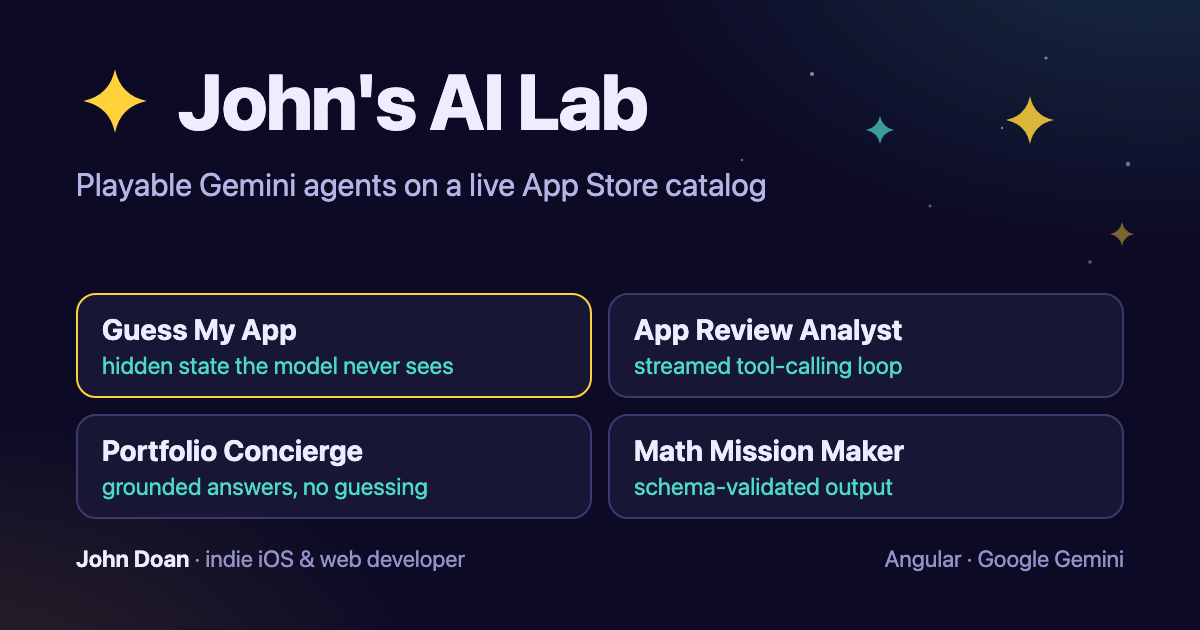
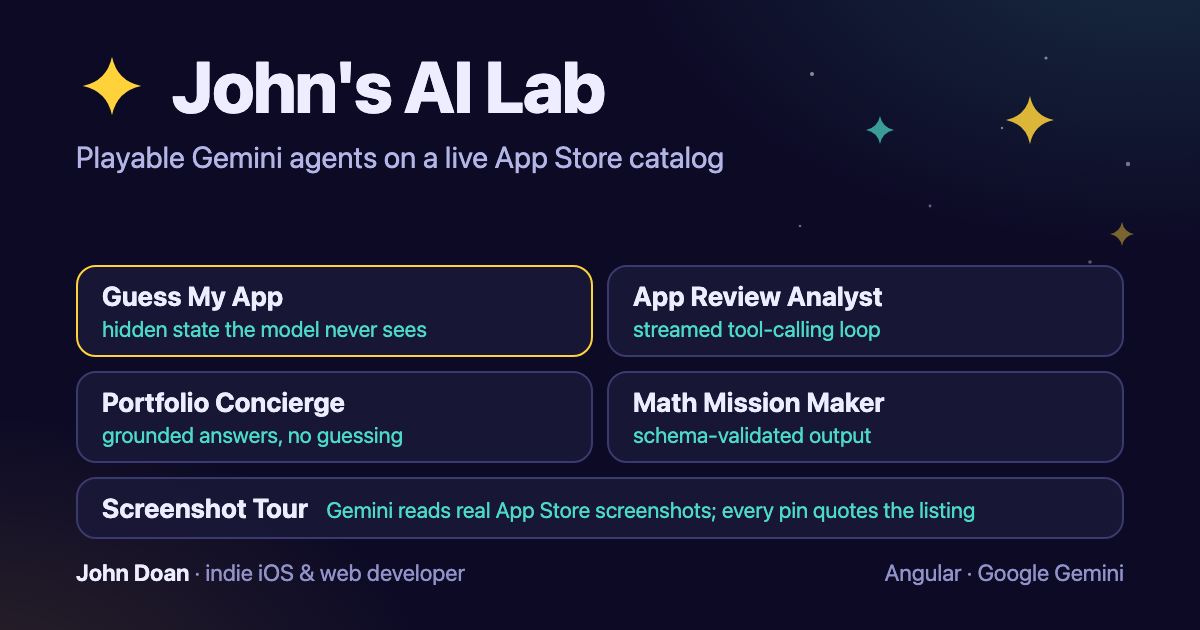
ai-lab

Changed region(s): [[0.0617, 0.4222, 0.9558, 0.9349], [0.0617, 0.0905, 0.6475, 0.3317]]

diff --git a/ai-lab/brand/og-image.html b/ai-lab/brand/og-image.html
@@ -16,17 +16,20 @@
     font-family: ui-rounded, 'SF Pro Rounded', -apple-system, BlinkMacSystemFont, 'Segoe UI', Roboto, Helvetica, Arial, sans-serif;
   }
   .sky { position: absolute; inset: 0; }
-  .wrap { position: absolute; inset: 0; padding: 62px 76px 58px; display: flex; flex-direction: column; }
+  .wrap { position: absolute; inset: 0; padding: 50px 76px 44px; display: flex; flex-direction: column; }
   .brand { display: flex; align-items: center; gap: 24px; }
-  .brand svg { width: 78px; height: 78px; flex: none; }
-  h1 { margin: 0; font-size: 78px; line-height: 1; font-weight: 800; letter-spacing: -1.5px; }
-  .sub { margin: 24px 0 0; font-size: 32px; line-height: 1.25; color: #b3b5e6; }
-  .grid { margin-top: auto; display: grid; grid-template-columns: 1fr 1fr; gap: 16px; }
-  .card { background: rgba(26, 24, 56, 0.86); border: 2px solid #3a3a6e; border-radius: 20px; padding: 17px 24px; }
+  .brand svg { width: 72px; height: 72px; flex: none; }
+  h1 { margin: 0; font-size: 72px; line-height: 1; font-weight: 800; letter-spacing: -1.5px; }
+  .sub { margin: 16px 0 0; font-size: 30px; line-height: 1.25; color: #b3b5e6; }
+  .grid { margin-top: auto; display: grid; grid-template-columns: 1fr 1fr; gap: 14px; }
+  .card { background: rgba(26, 24, 56, 0.86); border: 2px solid #3a3a6e; border-radius: 20px; padding: 13px 24px; }
+  /* Five stages: the fifth spans both columns, title and caption on one line. */
+  .card.wide { grid-column: 1 / -1; display: flex; align-items: baseline; gap: 18px; }
+  .card.wide span { margin-top: 0; }
   .card.lead { border-color: #ffd23b; }
-  .card b { display: block; font-size: 29px; font-weight: 700; }
-  .card span { display: block; margin-top: 5px; font-size: 24px; color: #4cd9c7; }
-  .foot { margin-top: 26px; display: flex; justify-content: space-between; align-items: baseline; font-size: 23px; color: #9092c8; }
+  .card b { display: block; font-size: 27px; font-weight: 700; }
+  .card span { display: block; margin-top: 4px; font-size: 22px; color: #4cd9c7; }
+  .foot { margin-top: 20px; display: flex; justify-content: space-between; align-items: baseline; font-size: 23px; color: #9092c8; }
   .foot strong { color: #ededff; font-weight: 650; }
 </style>
 </head>
@@ -36,7 +39,7 @@
     <g fill="#ededff">
       <circle cx="812" cy="74" r="2" opacity=".55"/><circle cx="1046" cy="58" r="1.6" opacity=".5"/>
       <circle cx="1128" cy="164" r="2.2" opacity=".45"/><circle cx="930" cy="206" r="1.4" opacity=".4"/>
-      <circle cx="1090" cy="262" r="1.8" opacity=".35"/><circle cx="742" cy="160" r="1.3" opacity=".4"/>
+      <circle cx="1090" cy="262" r="1.8" opacity=".35"/><circle cx="800" cy="226" r="1.3" opacity=".4"/>
       <circle cx="1002" cy="128" r="1.2" opacity=".5"/>
     </g>
     <path fill="#ffd23b" opacity=".85" d="M1030 96 Q1034 116 1054 120 Q1034 124 1030 144 Q1026 124 1006 120 Q1026 116 1030 96 Z"/>
@@ -58,6 +61,7 @@
       <div class="card"><b>App Review Analyst</b><span>streamed tool-calling loop</span></div>
       <div class="card"><b>Portfolio Concierge</b><span>grounded answers, no guessing</span></div>
       <div class="card"><b>Math Mission Maker</b><span>schema-validated output</span></div>
+      <div class="card wide"><b>Screenshot Tour</b><span>Gemini reads real App Store screenshots; every pin quotes the listing</span></div>
     </div>
 
     <div class="foot">

diff --git a/ai-lab/src/index.html b/ai-lab/src/index.html
@@ -27,12 +27,12 @@
   <meta property="og:image:type" content="image/png">
   <meta property="og:image:width" content="1200">
   <meta property="og:image:height" content="630">
-  <meta property="og:image:alt" content="John's AI Lab: four Gemini agent demos — Guess My App, App Review Analyst, Portfolio Concierge, and Math Mission Maker — by John Doan, indie iOS and web developer.">
+  <meta property="og:image:alt" content="John's AI Lab: five Gemini agent demos — Guess My App, App Review Analyst, Portfolio Concierge, Math Mission Maker, and Screenshot Tour — by John Doan, indie iOS and web developer.">
   <meta name="twitter:card" content="summary_large_image">
   <meta name="twitter:title" content="John's AI Lab — playable Gemini agents by John Doan">
   <meta name="twitter:description" content="Five playable Gemini demos: twenty questions against a live App Store catalog, a streamed tool-calling analyst, a grounded concierge, schema-validated kids' math missions, and a screenshot tour where every pin quotes the App Store listing.">
   <meta name="twitter:image" content="https://ai-lab-psi-drab.vercel.app/og-image.png">
-  <meta name="twitter:image:alt" content="John's AI Lab: four Gemini agent demos — Guess My App, App Review Analyst, Portfolio Concierge, and Math Mission Maker — by John Doan, indie iOS and web developer.">
+  <meta name="twitter:image:alt" content="John's AI Lab: five Gemini agent demos — Guess My App, App Review Analyst, Portfolio Concierge, Math Mission Maker, and Screenshot Tour — by John Doan, indie iOS and web developer.">
 </head>
 <body>
   <app-root></app-root>
